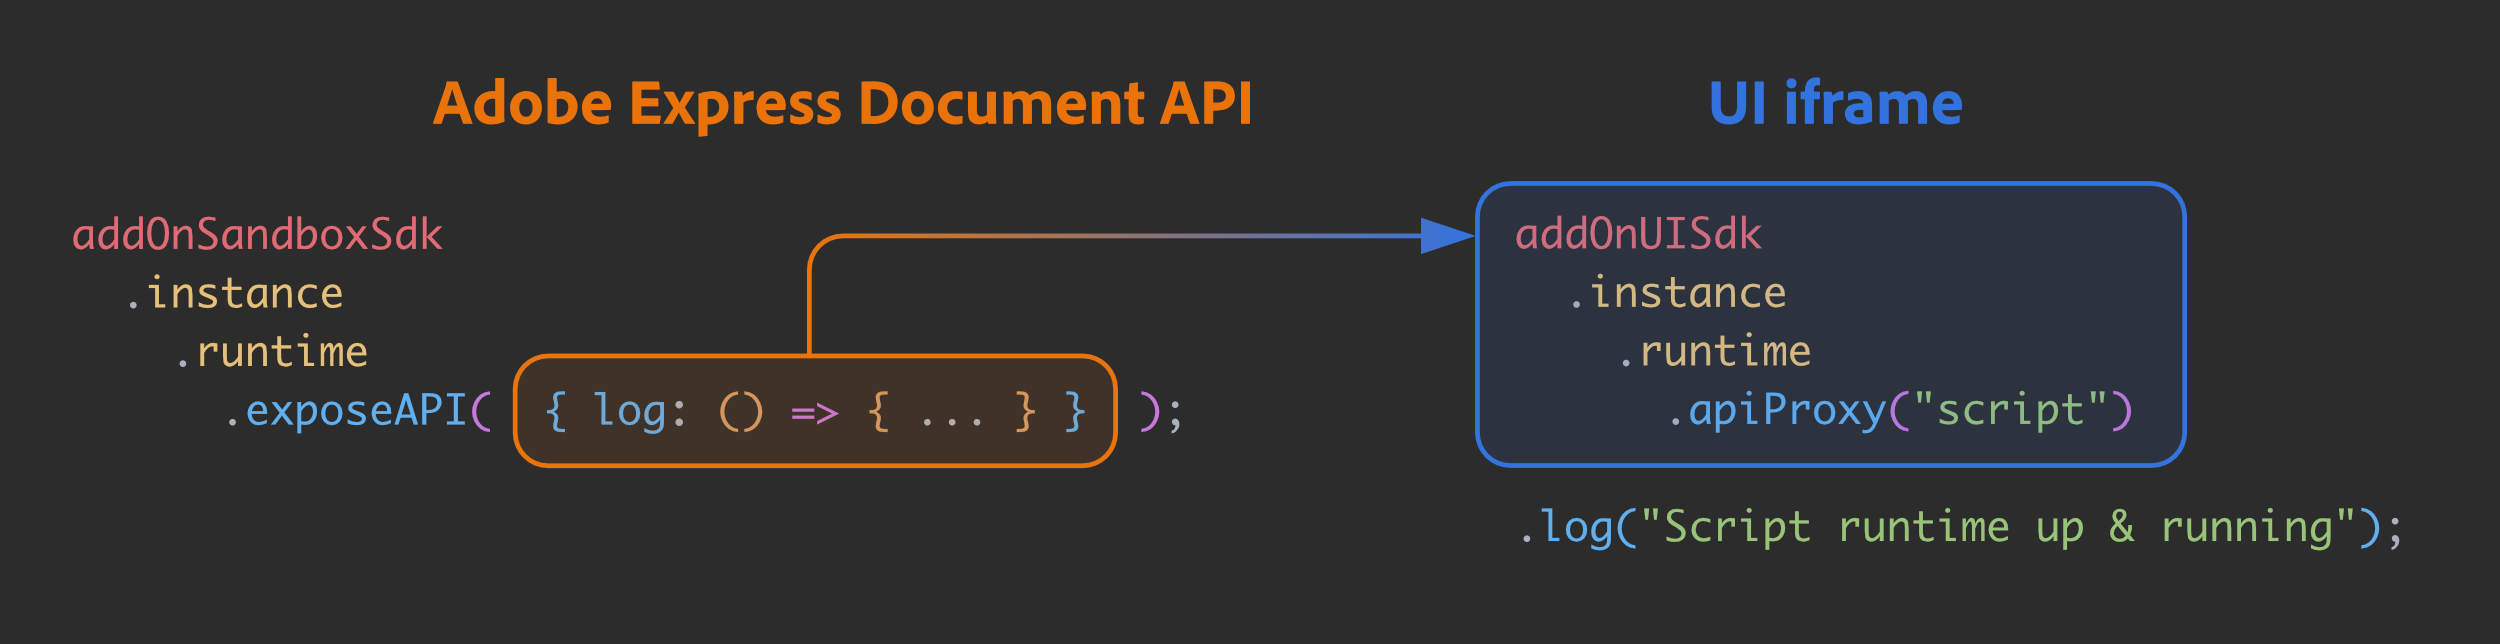
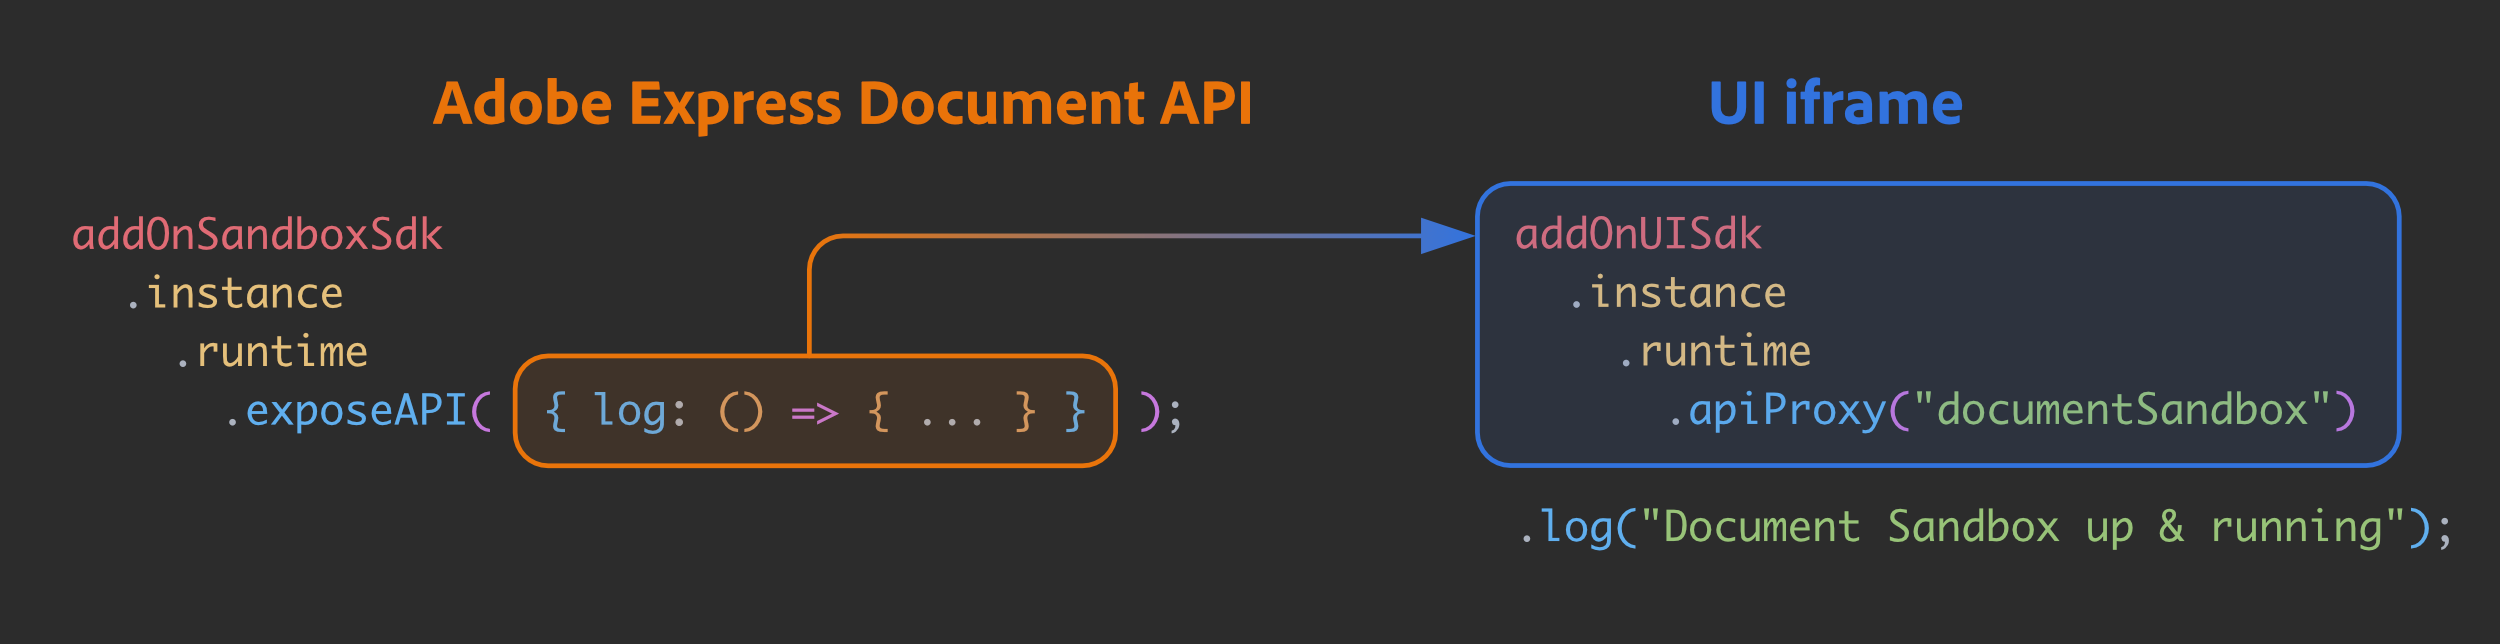
Fix MVP API changes

diff --git a/src/pages/guides/tutorials/grids-addon.md b/src/pages/guides/tutorials/grids-addon.md
@@ -31,11 +31,21 @@ Your add-on will allow users to create a variable number of rows and columns, co
 
 ### Timestamp
 
-This tutorial has been written by [Davide Barranca](https://www.davidebarranca.com), software developer and author from Italy. It's been first published on November 6th, 2023 and last updated on November 21st, 2023 with the following changes:
+This tutorial has been written by [Davide Barranca](https://www.davidebarranca.com), software developer and author from Italy. The changelog is as follows.
 
+**November 29th, 2023**
+- `apiProxy()` now accepts `"documentSandbox"` as a parameter, instead of `"script"`.
+- `addOnSandboxSdk` is now imported from `"add-on-sdk-document-sandbox"` (it used to be `"AddOnScriptSdk"`).
+- `editor` and other modules are now imported from `"express-document-sdk"` (it used to be `"express"`).
+- `Constants` are now `constants` (lowercase), and their enums have changed (e.g., `BlendModeValue` is now `BlendMode`). 
+
+**November 21st, 2023**
 - Editor API are now called the Document API, which are part of the Document Model Sandbox.
-- Update the add-on folders  to reflect the new naming convention (`script` is now `documentSandbox`).
+- Update the add-on folders to reflect the new naming convention (`script` is now `documentSandbox`).
 - Update Reference Documentation links and screenshots.
+
+**November 6th, 2023**
+- First publication.
 
 ### Prerequisites
 
@@ -163,7 +173,7 @@ addOnUISdk.ready.then(async () => {
 
   // Get the UI runtime.
   const { runtime } = addOnUISdk.instance;
-  const sandboxProxy = await runtime.apiProxy("script");
+  const sandboxProxy = await runtime.apiProxy("documentSandbox");
   sandboxProxy.log("Document Sandbox up and running.");
 
   // Enabling CTA elements only when the addOnUISdk is ready
@@ -174,7 +184,7 @@ addOnUISdk.ready.then(async () => {
 #### Document API
 
 ```js
-import addOnSandboxSdk from "AddOnScriptSdk";
+import addOnSandboxSdk from "add-on-sdk-document-sandbox";
 const { runtime } = addOnSandboxSdk.instance;
 
 function start() {
@@ -205,7 +215,7 @@ The `index.html` contains a `<sp-theme>` wrapper, whose role is explained [here]
 
 A crucial component of any add-on that consumes the Document API is the communication bridge with the iframe. As we've seen earlier, it's precisely the role of the **Communication API**.
 
-The mechanism is straightforward: through the `runtime` object (`code.js`, line 2), you can invoke the `exposeApi()` method, which grants the iframe access to the object literal that is passed as a parameter. The iframe must get to the `runtime`, too, and use its `apiProxy()` method passing `"script"`. This asynchronous call results in the same object whose `log()` can now be invoked.
+The mechanism is straightforward: through the `runtime` object (`code.js`, line 2), you can invoke the `exposeApi()` method, which grants the iframe access to the object literal that is passed as a parameter. The iframe must get to the `runtime`, too, and use its `apiProxy()` method passing `"documentSandbox"`. This asynchronous call results in the same object whose `log()` can now be invoked.
 
 ![Add-on Communication API](images/grids-addon-communicationapi.png)
 
@@ -255,7 +265,7 @@ The Document API is rapidly expanding: to keep track of its progress, you must g
 
 ![Add-on Communication API](images/grids-addon-reference.png)
 
-In the left-navbar, you can browse through all the Classes (which Adobe Express elements are instantiated from), Interfaces and Constants. It's a hierarchical representation of the Document API data structures: for instance, you can see that a [`RectangleNode`](/references/document-sandbox/document-apis/classes/RectangleNode/) is a subclass of the [`FillableNode`](/references/document-sandbox/document-apis/classes/FillableNode/), which in turn subclasses the [`StrokableNode`](/references/document-sandbox/document-apis/classes/StrokableNode/), which eventually is just a particular kind of [`Node`](/references/document-sandbox/document-apis/classes/Node/)—the base class.
+In the left-navbar, you can browse through all the Classes (which Adobe Express elements are instantiated from), Interfaces and constants. It's a hierarchical representation of the Document API data structures: for instance, you can see that a [`RectangleNode`](/references/document-sandbox/document-apis/classes/RectangleNode/) is a subclass of the [`FillableNode`](/references/document-sandbox/document-apis/classes/FillableNode/), which in turn subclasses the [`StrokableNode`](/references/document-sandbox/document-apis/classes/StrokableNode/), which eventually is just a particular kind of [`Node`](/references/document-sandbox/document-apis/classes/Node/)—the base class.
 
 Some properties are shared among the `RectangleNode` and, say, other `StrokableNode` subclasses such as the `EllipseNode`: for instance, the `opacity`, or `blendMode`. Other ones are unique, like the `topLeftRadius`, which, in the context of an `EllipseNode`, wouldn't make sense.
 
@@ -285,7 +295,7 @@ addOnUISdk.ready.then(async () => {
   const createShapeButton = document.getElementById("createShape");
 
   const { runtime } = addOnUISdk.instance;
-  const sandboxProxy = await runtime.apiProxy("script");
+  const sandboxProxy = await runtime.apiProxy("documentSandbox");
 
   createShapeButton.addEventListener("click", async () => {
     sandboxProxy.createShape({ width: 200, height: 100 }); // 👈
@@ -298,9 +308,9 @@ addOnUISdk.ready.then(async () => {
 #### Document API
 
 ```js
-import addOnSandboxSdk from "AddOnScriptSdk";
+import addOnSandboxSdk from "add-on-sdk-document-sandbox";
 const { runtime } = addOnSandboxSdk.instance;
-import { editor, utils, Constants } from "express";
+import { editor, utils, constants } from "express-document-sdk";
 
 function start() {
   runtime.exposeApi({
@@ -308,8 +318,7 @@ function start() {
       const rect = editor.createRectangle();
       rect.width = width;
       rect.height = height;
-      rect.translateX = 50;
-      rect.translateY = 50;
+      rect.translation = { x: 50, y: 50 };
 
       const col = utils.createColor(0.9, 0.5, 0.9);
       const fillColor = editor.createColorFill(col);
@@ -333,20 +342,19 @@ Please note that it's considered good practice to initially **disable all intera
 
 The `createShapeButton` invokes the `createShape()` method defined and exposed in `code.js` (lines 7-19), passing an option object with arbitrary `width` and `height` properties. The function reveals key insights about the Document API—let's have a deeper look at the code.
 
-According to the Reference, `createRectangle()` is a method of the [`Editor`](/references/document-sandbox/document-apis/classes/Editor/) class, which must be imported from `"express"` with the following statement.
+According to the Reference, `createRectangle()` is a method of the [`Editor`](/references/document-sandbox/document-apis/classes/Editor/) class, which must be imported from `"express-document-sdk"` with the following statement.
 
 ```js
-import { editor, utils, Constants } from "express";
+import { editor, utils, constants } from "express-document-sdk";
 ```
 
-We'll also make use of `utils` and `Constants`—they are named imports from `"express"`, too. The `createRectangle()` function doesn't need any parameter, either required or optional; hence, the properties of this new element must be set after its creation.
+We'll also make use of `utils` and `constants`—they are named imports from `"express-document-sdk"`, too. The `createRectangle()` function doesn't need any parameter, either required or optional; hence, the properties of this new element must be set after its creation.
 
 ```js
 const rect = editor.createRectangle();
 rect.width = width;
 rect.height = height;
-rect.translateX = 50; 
-rect.translateY = 50;
+rect.translation = { x: 50, y: 50 };
 ```
 
 Dimensions and positions are straightforward while assigning a fill color is a multi-step process at the moment.[^1]
@@ -528,7 +536,7 @@ addOnUISdk.ready.then(async () => {
 
   // Get the Document Sandbox.
   const { runtime } = addOnUISdk.instance;
-  const sandboxProxy = await runtime.apiProxy("script");
+  const sandboxProxy = await runtime.apiProxy("documentSandbox");
 
   // Input fields -------------------------------------------
 
@@ -617,9 +625,9 @@ It makes sense to approach this grid business with some caution, as we're just s
 #### documentSandbox/code.js
 
 ```js
-import addOnSandboxSdk from "AddOnScriptSdk";
+import addOnSandboxSdk from "add-on-sdk-document-sandbox";
 const { runtime } = addOnSandboxSdk.instance;
-import { editor, utils, Constants } from "express";
+import { editor, utils, constants } from "express-document-sdk";
 
 function start() {
   runtime.exposeApi({
@@ -688,7 +696,7 @@ To draw all four (or any number coming from the UI) rectangles at once, a loop i
 	  r.width = page.width;
 	  r.height = rowHeight;
 		// moving the row in place
-    r.translateY = gutter + (gutter + rowHeight) * i;
+    r.translation = { x: 0, y: gutter + (gutter + rowHeight) * i };
     rowsRect.push(r);
   }
   // adding the rows to the page
@@ -713,7 +721,7 @@ for (let i = 0; i < cols; i++) {
 	let r = editor.createRectangle();
 	  r.width = colWidth;
 	  r.height = page.height;
-		r.translateX = gutter + (gutter + colWidth) * i;
+    r.translation = { x: gutter + (gutter + colWidth) * i, y: 0 };
 	cols.push(r);
 }
 cols.forEach((rect) => page.artboards.first.children.append(rect));
@@ -737,8 +745,8 @@ The Grid creation process can be split into **smaller, separate steps**—we can
 #### documentSandbox/code.js
 
 ```js
-import addOnSandboxSdk from "AddOnScriptSdk";
-import { editor } from "express";
+import addOnSandboxSdk from "add-on-sdk-document-sandbox";
+import { editor } from "express-document-sdk";
 import { addColumns, addRows } from "./shapeUtils";
 
 // Get the Document Sandbox.
@@ -763,7 +771,7 @@ start();
 #### documentSandbox/shapeUtils.js
 
 ```js
-import { editor, utils, Constants } from "express";
+import { editor, utils, constants } from "express-document-sdk";
 
 const hexToColor = (hex) => {
 	// ...
@@ -786,7 +794,7 @@ const addRows = (rowsNumber, gutter, color) => {
   const rowHeight = (page.height - (rowsNumber + 1) * gutter) / rowsNumber;
   for (let i = 0; i < rowsNumber; i++) {
     let r = createRect(page.width, rowHeight, color);
-    r.translateY = gutter + (gutter + rowHeight) * i;
+    r.translation = { x: 0, y: gutter + (gutter + rowHeight) * i };
     rows.push(r);
   }
   rows.forEach((row) => page.artboards.first.children.append(row));
@@ -798,7 +806,7 @@ const addColumns = (columNumber, gutter, color) => {
   const colWidth = (page.width - (columNumber + 1) * gutter) / columNumber;
   for (let i = 0; i < columNumber; i++) {
     let r = createRect(colWidth, page.height, color);
-    r.translateX = gutter + (gutter + colWidth) * i;
+    r.translation = { x: gutter + (gutter + colWidth) * i, y: 0 };
     cols.push(r);
   }
   cols.forEach((col) => page.artboards.first.children.append(col));
@@ -842,25 +850,6 @@ const addRows = (rowsNumber, gutter, color) => {
 
 ![](images/grids-addon-groups.png)
 
-<!-- code below -->
-<InlineAlert variant="warning" slots="heading, text1, text2" />
-
-**Grouping elements**
-
-Like every other node, groups are first created, and then put on the page. It's important to remember that **groups can only act as containers if they exist on the document** first.
-
-```js
-// DO
-const rowsGroup = editor.createGroup();          // ✅  create
-page.artboards.first.children.append(rowsGroup); // ✅  append
-rowsGroup.children.append(...rows);              // ✅  fill
-
-// DON'T
-const rowsGroup = editor.createGroup();          // ✅  create
-rowsGroup.children.append(...rows);              // ❌  fill 
-page.artboards.first.children.append(rowsGroup); // ❌  append
-```
-
 To complete the project, we can add some finishing touches. Groups can be locked: preventing accidental shifts and transformations would be nice indeed. The Reference documentation comes in handy again with the boolean [`locked`](/references/document-sandbox/document-apis/classes/GroupNode.md#locked) property, which we can easily set after populating the group.
 
 ```js
@@ -869,15 +858,15 @@ rowsGroup.children.append(...rows);
 rowsGroup.locked = true;
 ```
 
-The Reference also shows an interesting [`blendMode`](/references/document-sandbox/document-apis/classes/GroupNode.md#blendmode): setting it to [`multiply`](/references/document-sandbox/document-apis/enums/BlendModeValue/#multiply) will produce a visually nicer overlay effect ([opacity](/references/document-sandbox/document-apis/classes/GroupNode.md#opacity) can be an alternative).
+The Reference also shows an interesting [`blendMode`](/references/document-sandbox/document-apis/classes/GroupNode.md#blendmode): setting it to [`multiply`](/references/document-sandbox/document-apis/enums/BlendMode/#multiply) will produce a visually nicer overlay effect ([opacity](/references/document-sandbox/document-apis/classes/GroupNode.md#opacity) can be an alternative).
 
 ```js
 // ...
-rowsGroup.blendMode = Constants.BlendModeValue.multiply;
+rowsGroup.blendMode = constants.BlendMode.multiply;
 rowsGroup.locked = true;
 ```
 
-At present, the Reference includes only a few enumerations, such as `BlendModeValue`. As the Document API expands, more enumerations will be added. They provide sets of named constants, making the code more readable by replacing direct numeric values with descriptive names.
+At present, the Reference includes only a few enumerations, such as `BlendMode`. As the Document API expands, more enumerations will be added. They provide sets of named constants, making the code more readable by replacing direct numeric values with descriptive names.
 
 <InlineAlert variant="warning" slots="text1" />
 
@@ -1057,7 +1046,7 @@ addOnUISdk.ready.then(async () => {
 
   // Get the Document Sandbox.
   const { runtime } = addOnUISdk.instance;
-  const sandboxProxy = await runtime.apiProxy("script");
+  const sandboxProxy = await runtime.apiProxy("documentSandbox");
 
   // Input fields -------------------------------------------
 
@@ -1206,8 +1195,8 @@ sp-button-group {
 #### Document API
 
 ```js
-import addOnSandboxSdk from "AddOnScriptSdk";
-import { editor } from "express";
+import addOnSandboxSdk from "add-on-sdk-document-sandbox";
+import { editor } from "express-document-sdk";
 import { addColumns, addRows } from "./shapeUtils";
 
 // Get the Document Sandbox.
@@ -1272,7 +1261,7 @@ start();
 #### Document API
 
 ```js
-import { editor, utils, Constants } from "express";
+import { editor, utils, constants } from "express-document-sdk";
 
 /**
  * Convert a hex color string to an instance of the Color class
@@ -1335,7 +1324,7 @@ const addRows = (rowsNumber, gutter, color) => {
   // Create the rectangles
   for (let i = 0; i < rowsNumber; i++) {
     let r = createRect(page.width, rowHeight, color);
-    r.translateY = gutter + (gutter + rowHeight) * i;
+    r.translation = { x: 0, y: gutter + (gutter + rowHeight) * i };
     rows.push(r);
   }
   // Append the rectangles to the document
@@ -1347,7 +1336,7 @@ const addRows = (rowsNumber, gutter, color) => {
   // Populate the group with the rectangles
   rowsGroup.children.append(...rows);
   // Edit the group's properties
-  rowsGroup.blendMode = Constants.BlendModeValue.multiply;
+  rowsGroup.blendMode = constants.BlendMode.multiply;
   rowsGroup.locked = true;
   return rowsGroup;
 };
@@ -1368,7 +1357,7 @@ const addColumns = (columsNumber, gutter, color) => {
   // Create the rectangles
   for (let i = 0; i < columsNumber; i++) {
     let r = createRect(colWidth, page.height, color);
-    r.translateX = gutter + (gutter + colWidth) * i;
+    r.translation = { x: gutter + (gutter + colWidth) * i, y: 0 };
     cols.push(r);
   }
   // Append the rectangles to the document
@@ -1380,7 +1369,7 @@ const addColumns = (columsNumber, gutter, color) => {
   // Populate the group with the rectangles
   columnsGroup.children.append(...cols);
   // Edit the group's properties
-  columnsGroup.blendMode = Constants.BlendModeValue.multiply;
+  columnsGroup.blendMode = constants.BlendMode.multiply;
   columnsGroup.locked = true;
   return columnsGroup;
 };
